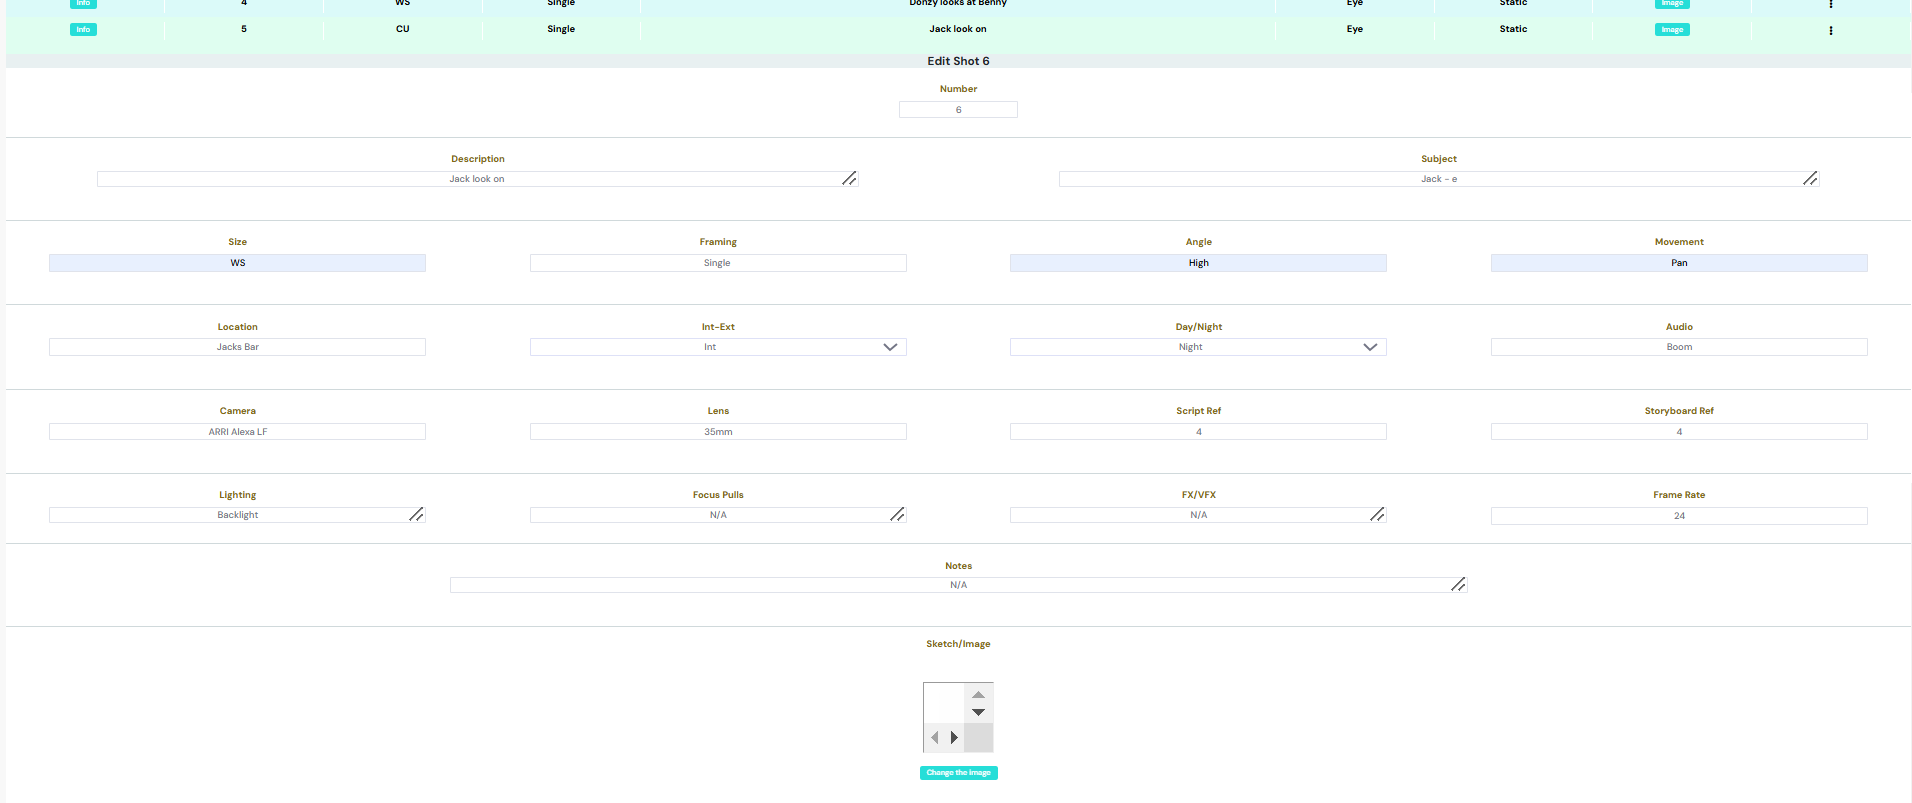
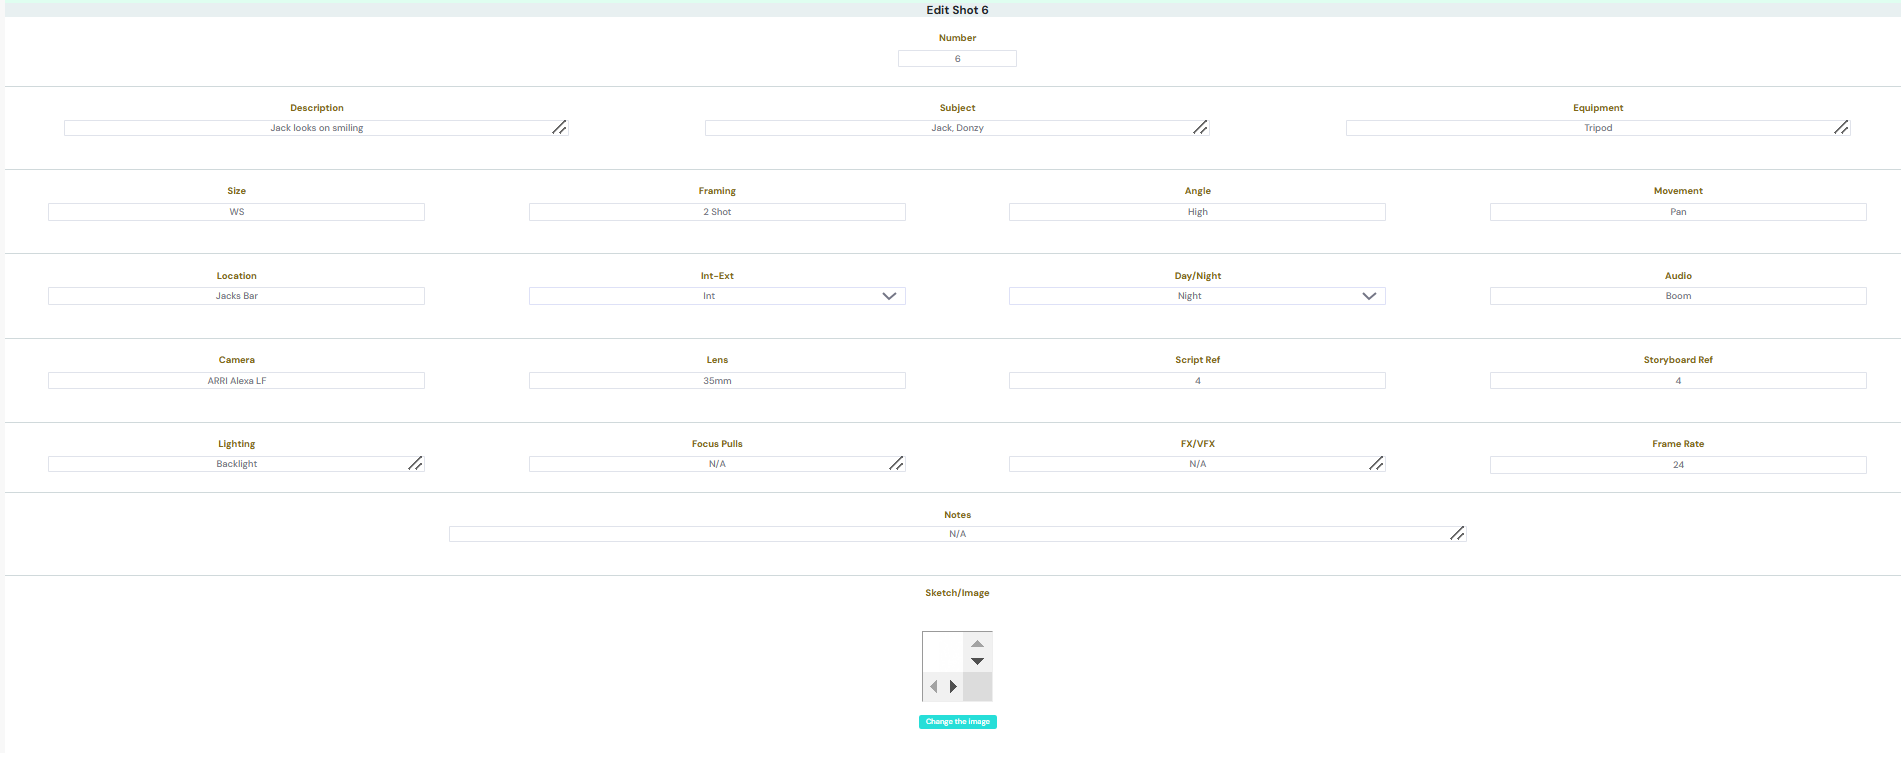
Shotlist

diff --git a/src/pages/scenes/shotlistStoryboard/ShotInfo.js b/src/pages/scenes/shotlistStoryboard/ShotInfo.js
@@ -47,7 +47,7 @@ const ShotInfo = (props) => {
             <hr className={`${styles.Break1} mt-0 mb-0`}/>
             </Col>
             </Row>
-            {/* audio focus pulls lighting */}
+            {/* audio equipment subject */}
             <Row className='mt-3' >
             <Col className={`${styles.BorderRight} text-center`} xs={6} md={4}>
             <p className={`${styles.BoldTitle} 
@@ -56,33 +56,33 @@ const ShotInfo = (props) => {
             <p>{audio} </p>
             </div>
             </Col>
-            <Col className={`${styles.BorderRight} text-center`} xs={6} md={4}>
-            <p className={`${styles.BoldTitle} 
-            mb-2 text-center mx-1 mx-sm-5`}>FOCUS PULLS</p>
-            <div className={`${styles.Para}`}>
-            <p>{focus_pulls} </p>
-            </div>
-            </Col>
-            <Col className={`text-center`} xs={12} md={4} >
-            <p className={`${styles.BoldTitle} 
-            mb-2 text-center mx-1 mx-sm-5`}>LIGHTING</p>
-            <div className={`${styles.Para}`}>
-            <p >{lighting}</p>
-            </div>
-            </Col>
-            </Row>
-            <Row>
-            <Col xs={12}>
-            <hr className={`${styles.Break1} mb-0`}/>
-            </Col>
-            </Row>
-            {/* Equipment frame rate subject  */}
-            <Row className='mt-3' >
             <Col className={`${styles.BorderRight} text-center`} xs={6} md={4} >
             <p className={`${styles.BoldTitle} 
             mb-2 text-center mx-1 mx-sm-5`}>EQUIPMENT</p>
             <div className={`${styles.Para}`}>
             <p >{equipment} </p>
+            </div>
+            </Col>
+            <Col className={`text-center`} xs={12} md={4}>
+            <p className={`${styles.BoldTitle} 
+            mb-2 text-center mx-1 mx-sm-5`}>SUBJECT</p>
+            <div className={`${styles.Para}`}>
+            <p>{actors} </p>
+            </div>
+            </Col>
+            </Row>
+            <Row>
+            <Col xs={12}>
+            <hr className={`${styles.Break1} mt-0 mb-0`}/>
+            </Col>
+            </Row>
+            {/* Equipment frame rate lighting  */}
+            <Row className='mt-3' >
+            <Col className={`${styles.BorderRight} text-center`} xs={6} md={4}>
+            <p className={`${styles.BoldTitle} 
+            mb-2 text-center mx-1 mx-sm-5`}>FOCUS PULLS</p>
+            <div className={`${styles.Para}`}>
+            <p>{focus_pulls} </p>
             </div>
             </Col>
             <Col className={`${styles.BorderRight} text-center`} xs={6} md={4} >
@@ -92,11 +92,11 @@ const ShotInfo = (props) => {
             <p >{frame_rate} </p>
             </div>
             </Col>
-            <Col className={`text-center`} xs={12} md={4}>
+            <Col className={`text-center`} xs={12} md={4} >
             <p className={`${styles.BoldTitle} 
-            mb-2 text-center mx-1 mx-sm-5`}>SUBJECT</p>
+            mb-2 text-center mx-1 mx-sm-5`}>LIGHTING</p>
             <div className={`${styles.Para}`}>
-            <p>{actors} </p>
+            <p >{lighting}</p>
             </div>
             </Col>
             </Row>
@@ -148,14 +148,14 @@ const ShotInfo = (props) => {
             </Row>
             <Row>
             <Col xs={12}>
-            <hr className={`${styles.Break1} mb-0`}/>
+            <hr className={`${styles.Break1} mt-0 mb-0`}/>
             </Col>
             </Row>
             {/* image */}
             <Row >
-                <Col className={`text-center`} xs={12} >
+                <Col className={`text-center mt-3`} xs={{span:4, offset: 4 }} >
                     <Button onClick={() => setShowImg(showImg => !showImg)} 
-                        className={`${btnStyles.Button} ${btnStyles.Blue} d-block d-md-none `}>
+                        className={`${btnStyles.Button} ${btnStyles.Blue} px-2 d-block d-md-none `}>
                         Image
                     </Button>                 
                 </Col>

diff --git a/src/pages/scenes/shotlistStoryboard/ShotListEdit.js b/src/pages/scenes/shotlistStoryboard/ShotListEdit.js
@@ -217,7 +217,7 @@ const ShotListEdit = ({handleMount, setShowEditForm, setShotNew, id}) => {
     return (
       <div className={`mb-0 mt-3 ${styles.White }`} >
       <h5 className={`my-3 text-center ${styles.SubTitle }`}>Edit Shot {shot_number} </h5>
-      <Form onSubmit={handleSubmit} className="text-center" >
+      <Form onSubmit={handleSubmit}className="text-center" >
         {/* number */}
         <Row>
           <Col xs={{span: 4, offset: 4}} className="d-flex justify-content-center p-0 p-md-2">
@@ -244,9 +244,9 @@ const ShotListEdit = ({handleMount, setShowEditForm, setShotNew, id}) => {
         <hr className={`${styles.Break1} mt-3 mb-0`}/>
         </Col>
         </Row>
-        {/* description Subject */}
+        {/* description Subject equipment */}
         <Row className="mt-3">
-        <Col xs={12} md={6} className="d-flex justify-content-center p-0 p-md-2">
+        <Col xs={12} md={4} className="d-flex justify-content-center p-0 p-md-2">
             <Form.Group controlId="description" className={`${styles.Width2}`} >
                 <Form.Label className={`${styles.BoldScene}`} >Description</Form.Label>
                 <Form.Control 
@@ -265,7 +265,7 @@ const ShotListEdit = ({handleMount, setShowEditForm, setShotNew, id}) => {
               </Alert>
             ))}
         </Col>
-        <Col xs={12} md={6} className="d-flex justify-content-center p-0 p-md-2">
+        <Col xs={12} md={4} className="d-flex justify-content-center p-0 p-md-2">
             <Form.Group controlId="actors" className={`${styles.Width2}`} >
                 <Form.Label className={`${styles.BoldScene}`}>Subject</Form.Label>
                 <Form.Control 
@@ -279,6 +279,25 @@ const ShotListEdit = ({handleMount, setShowEditForm, setShotNew, id}) => {
                     />
             </Form.Group>
             {errors?.actors?.map((message, idx) => (
+              <Alert variant="warning" key={idx}>
+                {message}
+              </Alert>
+            ))}
+        </Col>
+        <Col xs={12} md={4} className="d-flex justify-content-center p-0 p-md-2">
+            <Form.Group controlId="equipment" className={`${styles.Width2}`} >
+                <Form.Label className={`${styles.BoldScene}`} >Equipment</Form.Label>
+                <Form.Control 
+                className={styles.InputScene}
+                type="text"
+                as="textarea"
+                rows={1}
+                name="equipment"
+                value={equipment}
+                onChange={handleChange}
+                    />
+            </Form.Group>
+            {errors?.equipment?.map((message, idx) => (
               <Alert variant="warning" key={idx}>
                 {message}
               </Alert>
@@ -699,7 +718,7 @@ const ShotListEdit = ({handleMount, setShowEditForm, setShotNew, id}) => {
           {buttons}
         </Col>
         </Row>
-      </Form>
+        </Form>
       </div>
     )
 }

diff --git a/src/pages/scenes/shotlistStoryboard/ShotListCreate.js b/src/pages/scenes/shotlistStoryboard/ShotListCreate.js
@@ -187,9 +187,9 @@ const ShotListCreate = ({setAddShot, scene, setShotlist }) => {
         <hr className={`${styles.Break1} mt-3 mb-0`}/>
         </Col>
         </Row>
-        {/* description Subject */}
+        {/* description Subject equipment */}
         <Row className="mt-3">
-        <Col xs={12} md={6} className="d-flex justify-content-center p-0 p-md-2">
+        <Col xs={12} md={4} className="d-flex justify-content-center p-0 p-md-2">
             <Form.Group controlId="description" className={`${styles.Width2}`} >
                 <Form.Label className={`${styles.BoldScene}`} >Description</Form.Label>
                 <Form.Control 
@@ -208,7 +208,7 @@ const ShotListCreate = ({setAddShot, scene, setShotlist }) => {
               </Alert>
             ))}
         </Col>
-        <Col xs={12} md={6} className="d-flex justify-content-center p-0 p-md-2">
+        <Col xs={12} md={4} className="d-flex justify-content-center p-0 p-md-2">
             <Form.Group controlId="actors" className={`${styles.Width2}`} >
                 <Form.Label className={`${styles.BoldScene}`}>Subject</Form.Label>
                 <Form.Control 
@@ -222,6 +222,25 @@ const ShotListCreate = ({setAddShot, scene, setShotlist }) => {
                     />
             </Form.Group>
             {errors?.actors?.map((message, idx) => (
+              <Alert variant="warning" key={idx}>
+                {message}
+              </Alert>
+            ))}
+        </Col>
+        <Col xs={12} md={4} className="d-flex justify-content-center p-0 p-md-2">
+            <Form.Group controlId="equipment" className={`${styles.Width2}`} >
+                <Form.Label className={`${styles.BoldScene}`} >Equipment</Form.Label>
+                <Form.Control 
+                className={styles.InputScene}
+                type="text"
+                as="textarea"
+                rows={1}
+                name="equipment"
+                value={equipment}
+                onChange={handleChange}
+                    />
+            </Form.Group>
+            {errors?.equipment?.map((message, idx) => (
               <Alert variant="warning" key={idx}>
                 {message}
               </Alert>

diff --git a/src/pages/scenes/shotlistStoryboard/ShotImage.js b/src/pages/scenes/shotlistStoryboard/ShotImage.js
@@ -8,7 +8,7 @@ import { Image } from 'react-bootstrap';
 
 const ShotImage = ({image} ) => {
     return (
-        <div className={`${styles.InfoBack} mx-1 mx-md-5 mt-1 mb-3 pt-3`}>
+        <div className={`${styles.White} mx-1 mx-md-5 mt-1 mb-3 pt-3`}>
             <Row>
                 <Col className='text-center pt-1 pb-3'>
                 {image ? (<> 

diff --git a/TESTING.md b/TESTING.md
@@ -760,7 +760,7 @@ Description: View and Add the Shotlist<br>
 - Use Case: Add a Shot<br>
 
   1. Click on the "Add Shot" tab on the Shotlist page and the "Add Shot" form opens.<br>
-  2. Input the fields e.g. "Subject = Jack" and add a sketch or image, e.g. "shotsketch" then submit. <br>
+  2. Input the fields, e.g. - Description - "Jack looks on" and add a sketch or image, e.g. "shotsketch" then submit. <br>
   3. A Success message displays and the Shot is added.
   4. Refresh the page and the Shot is ordered correctly and all the imputs display and the image "shotsketch" is added.<br>
 
@@ -769,7 +769,7 @@ Description: View and Add the Shotlist<br>
 <img src="documentation/readme-images/shotadd1.png" width="50%">
 </h2>
 
-<p align="center"> <strong>Success Message and Shot Added</strong></p>
+<p align="center"> <strong>Success Message and Shot "6" is Added</strong></p>
 <h2 align="center">
 <img src="documentation/readme-images/shotadd2.png" width="50%">
 </h2>
@@ -780,7 +780,7 @@ Description: View and Add the Shotlist<br>
 
 <p align="center"> <strong>Extra Info</strong></p>
 <h2 align="center">
-<img src="documentation/readme-images/xxxxxx.png" width="50%">
+<img src="documentation/readme-images/shotinfo.png" width="50%">
 </h2>
 
 - Use Case: View the Sketch/Image<br>
@@ -789,14 +789,23 @@ Description: View and Add the Shotlist<br>
 
 <p align="center"> <strong>Image</strong></p>
 <h2 align="center">
-<img src="documentation/readme-images/xxxxxx.png" width="50%">
+<img src="documentation/readme-images/shotimage.png" width="50%">
+</h2>
+
+- Use Case: View the Shot and Info in Mobile view<br>
+
+  1. Click on the "Info" tab in Mobile view and the "Info" component opens displaying the Info.<br>
+
+<p align="center"> <strong>Mobile view</strong></p>
+<h2 align="center">
+<img src="documentation/readme-images/shotmo.png" width="50%">
 </h2>
 
 - Use Case: Edit a Shot<br>
 
   1. Click on the "3 Dots Edit/Delete menu" tab and select Edit on the Shot and the "Edit Shot" form opens.<br>
-  2. Input the new fields, e.g. "Subject = Jack -e" and add a new sketch or image then submit. <br>
-  3. A Success message displays and the Shot is updated including the new image "shotsketch -2" is added.<br>
+  2. Input the new changes, e.g. - Description - "Jack looks on smiling" and add a new sketch or image then submit. <br>
+  3. A Success message displays and the Shot is updated including the new image "shotsketch -2".<br>
 
 <p align="center"> <strong>Add the Inputs</strong></p>
 <h2 align="center">
@@ -806,6 +815,22 @@ Description: View and Add the Shotlist<br>
 <p align="center"> <strong>Success Message and Shot Updated</strong></p>
 <h2 align="center">
 <img src="documentation/readme-images/shotedit2.png" width="50%">
+</h2>
+
+- Use Case: Delete a Shot<br>
+
+  1. Click on the "3 Dots Edit/Delete menu" tab on Shot "6" and select Delete. <br>
+  2. A Modal opens asking to confirm Delete or Cancel.
+  3. Click "Cancel" and the Shot is not deleted and the Edit/Delete menu disappears. <br>
+  4. Click "Delete" and the Shot is deleted.<br>
+
+<p align="center"> <strong>Modal</strong></p>
+<h2 align="center">
+<img src="documentation/readme-images/shotdel1.png" width="50%">
+</h2>
+#<p align="center"> <strong>Shot "6" Deleted</strong></p>
+<h2 align="center">
+<img src="documentation/readme-images/shotdel2.png" width="50%">
 </h2>
 
 #### Scenes Workspaces
